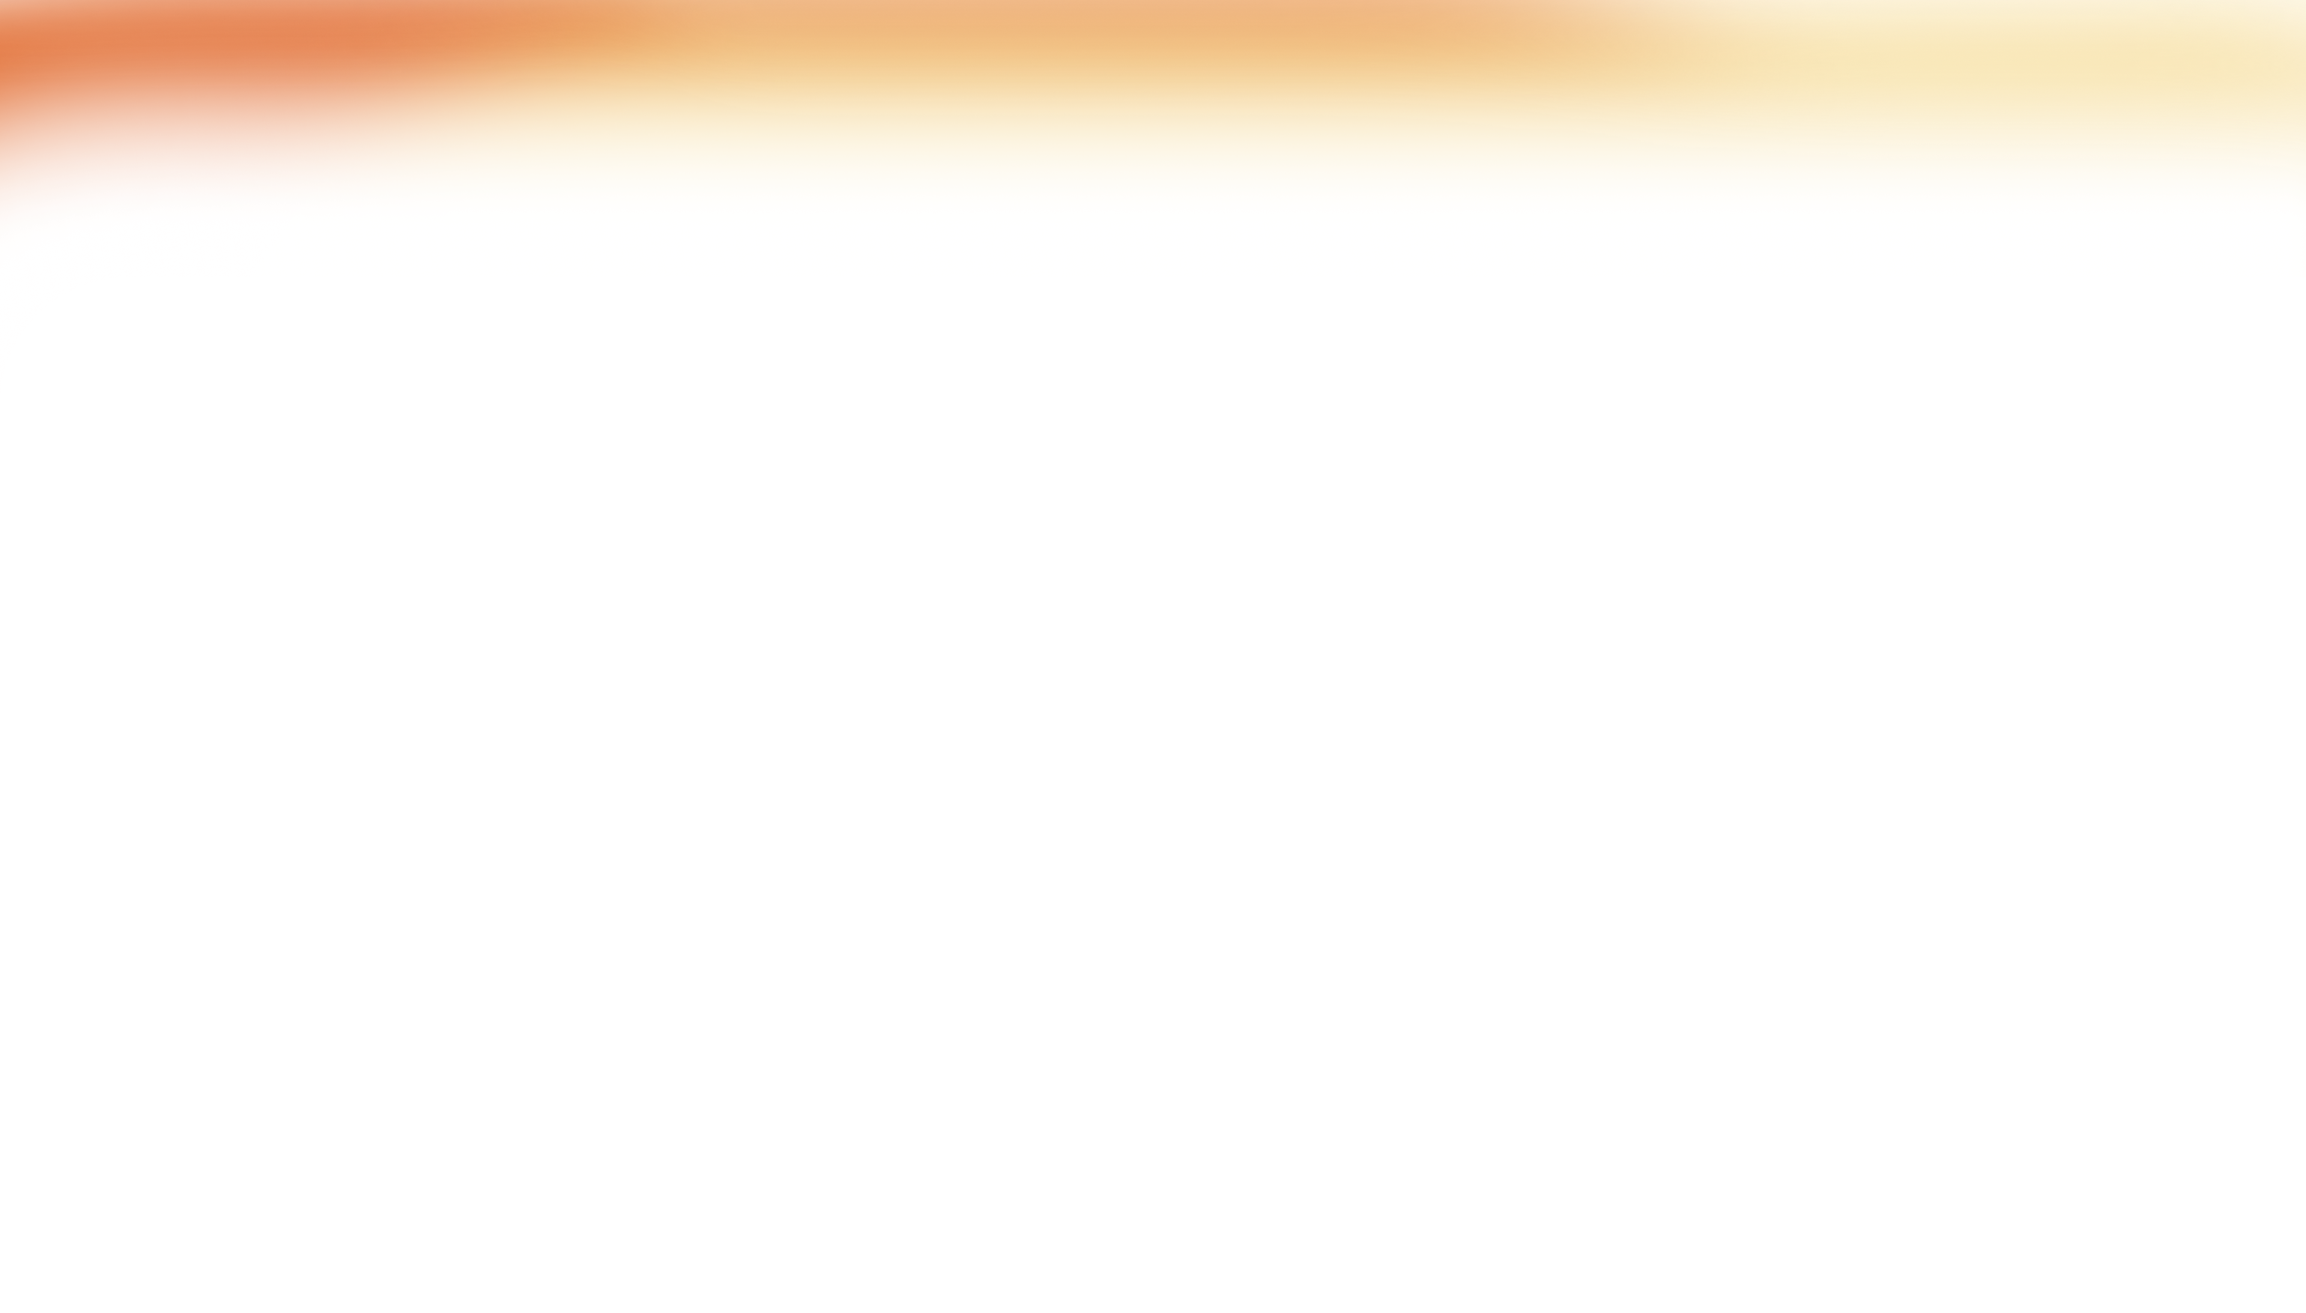
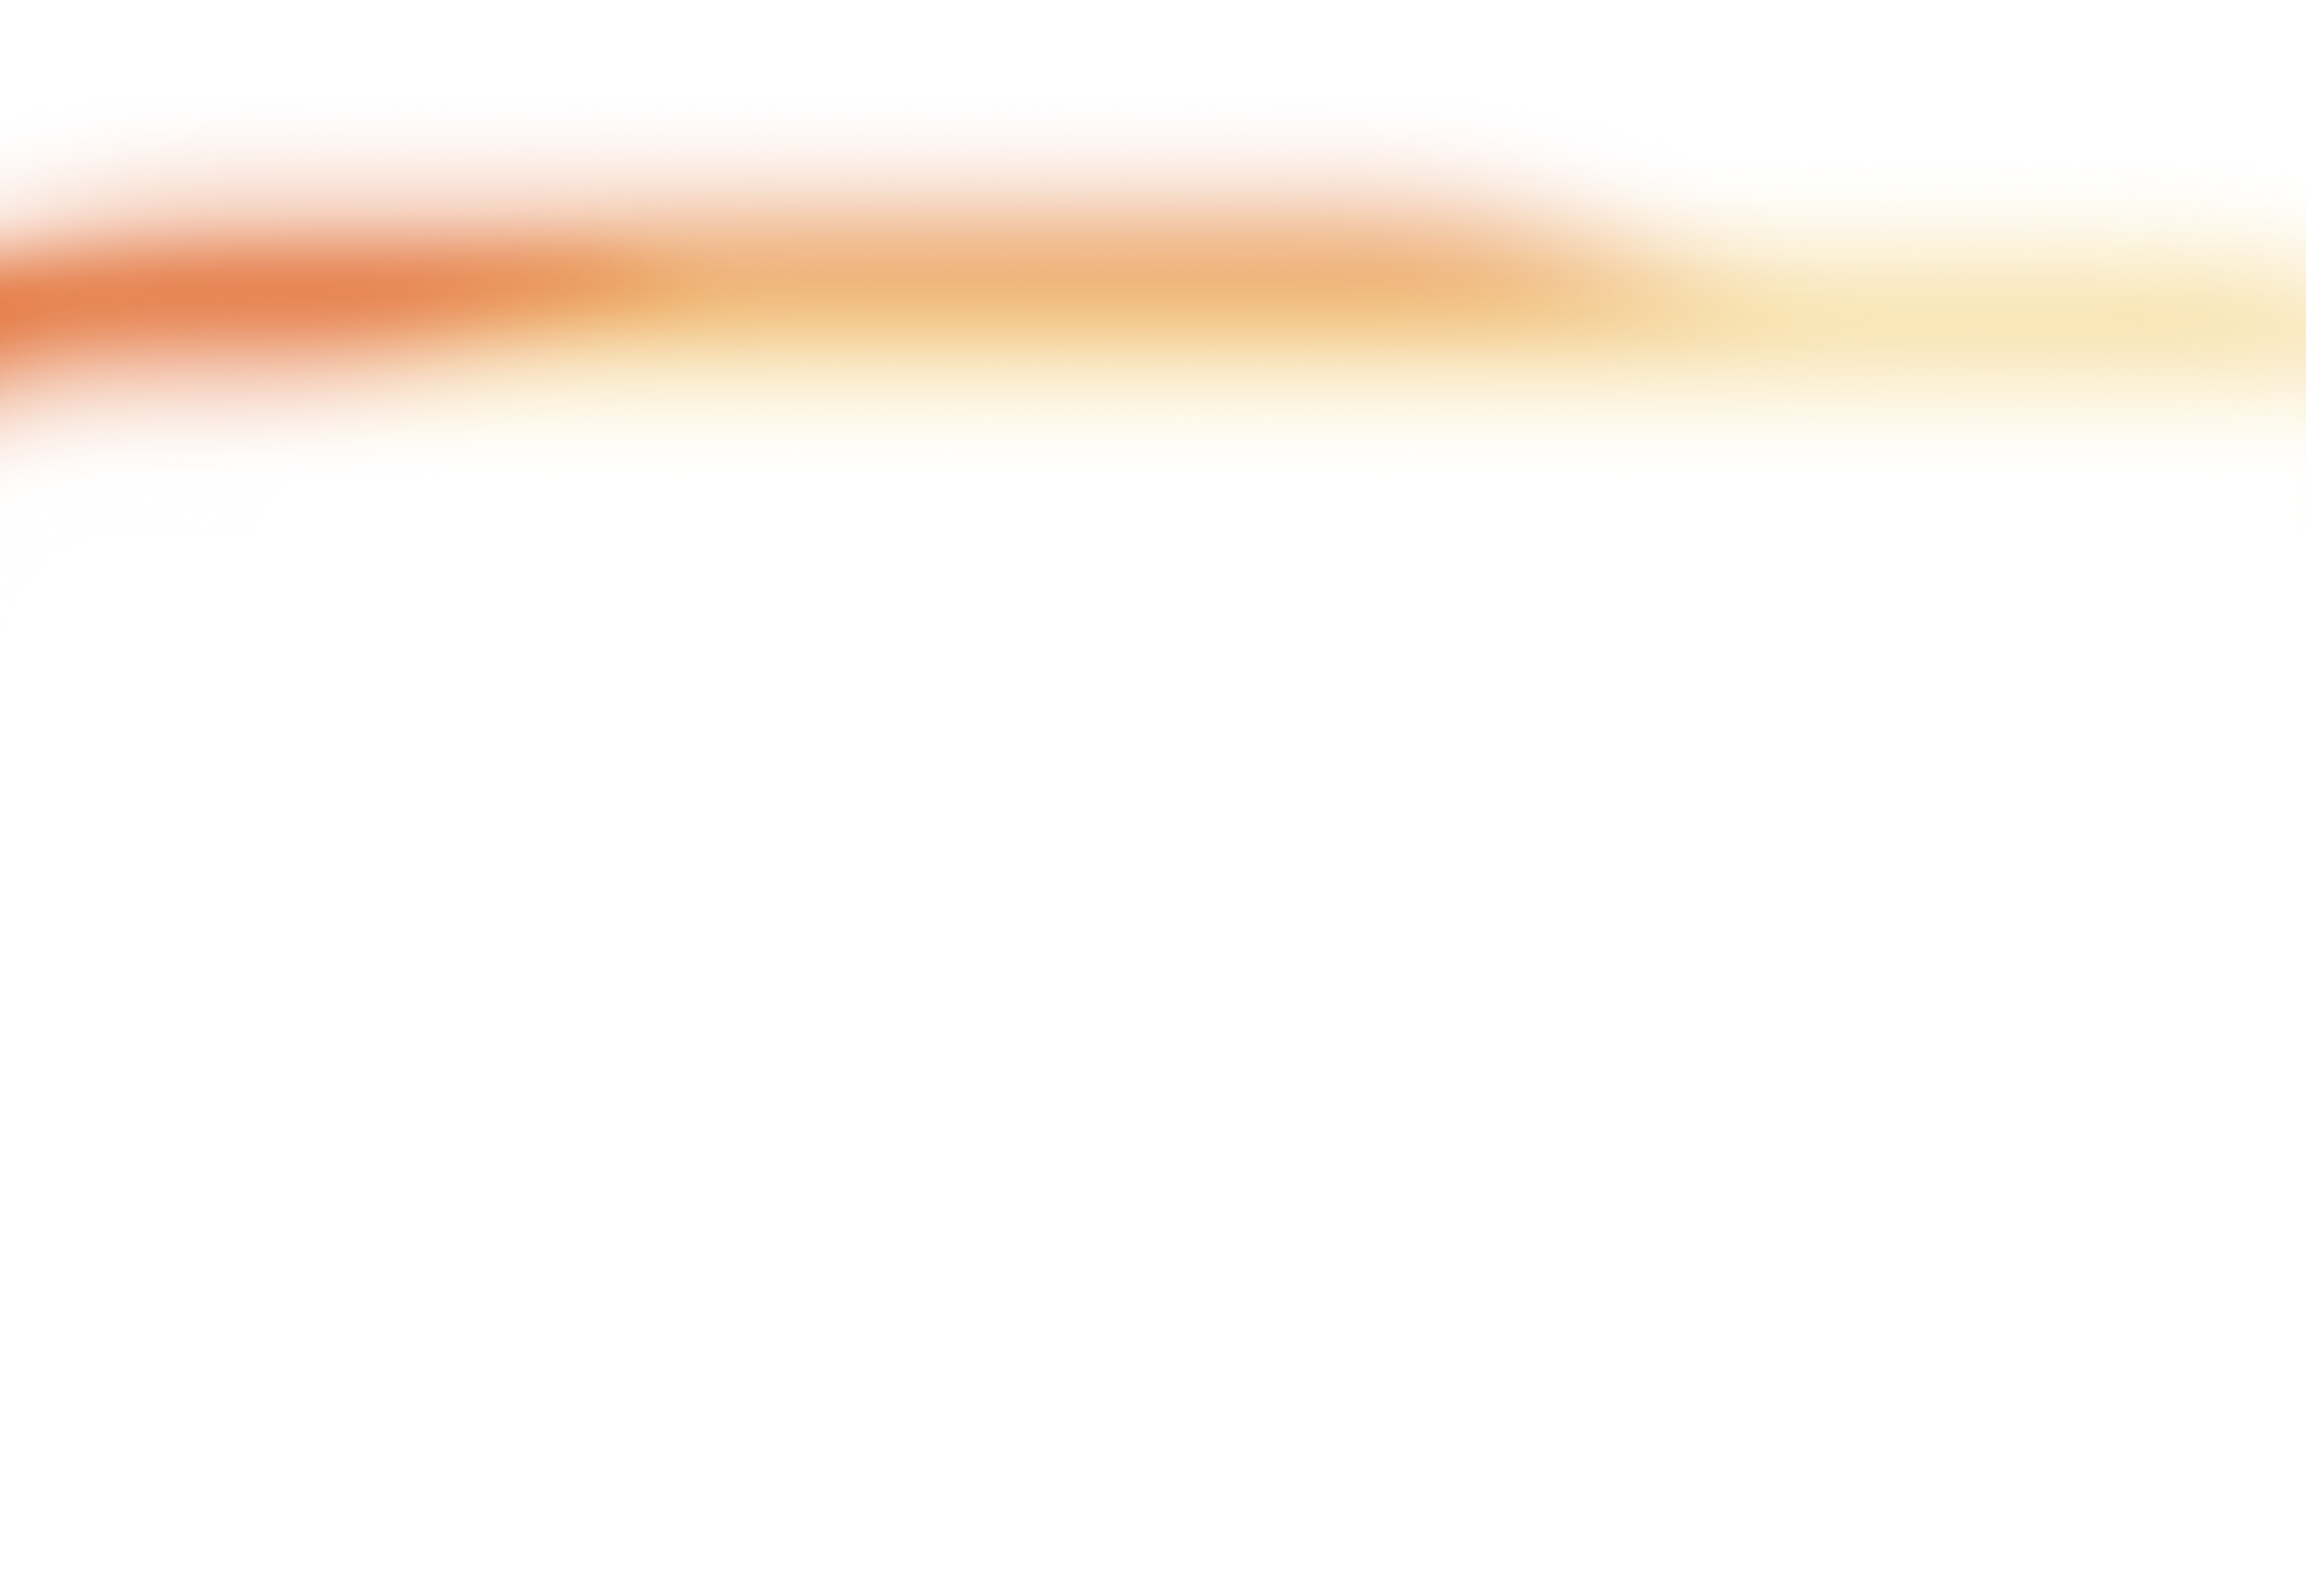
done footer

Changed region(s): [[0.0, 0.0, 1.0, 0.2798]]

diff --git a/features/Footer.tsx b/features/Footer.tsx
@@ -1,16 +1,85 @@
-import { AspectRatio, BackgroundImage, Container } from '@mantine/core'
+import { AspectRatio, BackgroundImage, Box, Container, Divider, Flex, Image, Input, Text, Title } from '@mantine/core'
 import React from 'react'
-import { FooterBG } from '../assets/imgs'
+import { FooterBG, SECLogo } from '../assets/imgs'
+import ArrowUpRight from '../assets/vectors/ArrowUpRight'
+import SocialMenu from '../components/Footer/SocialMenu'
+import CategoryMenu from '../components/Footer/CategoryMenu'
+import PolicyMenu from '../components/Footer/PolicyMenu'
 
 function Footer() {
   return (
-    <AspectRatio ratio={1920/1093}>
+    <Box pos={"relative"} style={{
+      zIndex: 100
+    }} bg={"#070707"}>
+      <AspectRatio ratio={1920/1158} >
         <BackgroundImage src={FooterBG.src} bgsz={"cover"}>
-        <Container fluid py={{base: 205, lg: 154, xl: 230}} px={{base: 16, lg: 106, xl: 160}}>
+          <Container fluid pt={{base: 205, lg: 154, xl: 420}} px={{base: 16, lg: 106, xl: 160}}>
+            <Flex
+                direction={{ base: "column", lg: "row" }}
+                align={"center"}
+                justify={"space-between"}
+                gap={24}
+              >
+                <Box w={{ base: "100%", lg: "50%" }}>
+                  <Text tt={"uppercase"} lh={"100%"} fz={{ base: 40, xl: 80 }} fw={400} c={"#1F2937"}>
+                    Let’s Talk 
+                  </Text>
+                  <Title tt={"uppercase"} lh={"100%"} fz={{ base: 40, xl: 80 }} fw={400} c={"#1F2937"}>
+                    Together
+                  </Title>
+                </Box>
+                <Box w={{ base: "100%", lg: "40%" }}>
+                  <Flex align={"center"} justify={"space-between"}>
+                    <Text c={"#1F2937"} fz={{base: 16, lg: 20, xl: 32}}>Enter Your Email</Text>
 
-        </Container>
-    </BackgroundImage>
+                    <AspectRatio ratio={1} w={{base: 26, lg: 40}}>
+                      <ArrowUpRight color='#1F2937' />
+                    </AspectRatio>
+                  </Flex>
+
+                  <Input variant={"unstyled"} style={{
+                    borderBottom: "1px solid #D1D5DB"
+                  }} />
+                </Box>
+              </Flex>
+
+              <Flex mt={{base: 40, lg: 60}} justify={"space-between"} gap={40} direction={{base: "column", lg: "row"}}>
+                  <Box w={{base: "100%", lg: "35%"}}>
+                    <SocialMenu />
+                    <Box mt={{base: 52, xl: 80}}>
+                      <Text c={"#1F2937"} fz={{base: 20, xl: 32}}>About Us</Text>
+
+                      <Text mt={{base: 22, xl: 33}} c={"#1F2937"} fz={{base: 12, xl: 16}}>
+                        SEC (Silver Exchange Company) was born with the mission to revolutionize silver investment in Vietnam, bringing a pioneering digitized silver solution, applying blockchain technology to solve existing problems of the traditional silver market.
+                      </Text>
+                    </Box>
+                  </Box>
+
+                  <Box w={{base: "100%", lg: "45%"}}>
+                    <CategoryMenu />
+                  </Box>
+              </Flex>
+          </Container>
+          <Divider mt={{base: 40, lg: 52, xl: 80}} />
+
+          <Flex wrap={"wrap"} align={"center"} py={{base: 16, xl: 24}} px={{base: 16, lg: 106, xl: 160}} justify={"space-between"}>
+            <Text w={{base: "50%", lg: "40%"}} c={"#1F2937"} fz={{base: 14, xl: 22}}>© 2024 Copyright By SEC</Text>
+
+            <Flex w={{base: "50%", lg: "20%"}} gap={"md"}>
+              <AspectRatio ratio={40/49} w={{base: 27, xl: 40}}>
+                  <Image src={SECLogo.src} alt='' />
+              </AspectRatio>
+
+              <Text c={"#1f2937"} fw={500} fz={{base: 20, xl: 32}}>SEC</Text>
+            </Flex>
+
+            <Box w={{base: "100%", lg: "40%"}}>
+              <PolicyMenu />
+            </Box>
+          </Flex>
+        </BackgroundImage>
     </AspectRatio>
+    </Box>
   )
 }
 

diff --git a/constants/menu.ts b/constants/menu.ts
@@ -1,0 +1,115 @@
+export const socialsMenu = [
+    {
+        title: "Instagram",
+        link: ""
+    },
+    {
+        title: "Twitter",
+        link: ""
+    },
+    {
+        title: "Tiktok",
+        link: ""
+    },
+    {
+        title: "Facebook",
+        link: ""
+    },
+    {
+        title: "Linkedin",
+        link: ""
+    },
+    {
+        title: "Youtube",
+        link: ""
+    }
+]
+
+export const categoriesMenu = [
+    {
+        title: "Company",
+        content: [
+            {
+                name: "About",
+                link: ""
+            },
+            {
+                name: "Pricing",
+                link: ""
+            },
+            {
+                name: "Jobs",
+                link: ""
+            },
+            {
+                name: "Blog",
+                link: ""
+            }
+        ]
+    },
+    {
+        title: "Product",
+        content: [
+            {
+                name: "Sales Software",
+                link: ""
+            },
+            {
+                name: "Marketplace",
+                link: ""
+            },
+            {
+                name: "Terms & Conditions",
+                link: ""
+            },
+            {
+                name: "Privacy Policy",
+                link: ""
+            }
+        ]
+    },
+    {
+        title: "Help Center",
+        content: [
+            {
+                name: "Community",
+                link: ""
+            },
+            {
+                name: "Knowledge Base",
+                link: ""
+            },
+            {
+                name: "Academy",
+                link: ""
+            },
+            {
+                name: "Support",
+                link: ""
+            }
+        ]
+    }
+]
+
+export const policiesMenu = [
+    {
+        title: "Terms",
+        link: ""
+    },
+    {
+        title: "Privacy",
+        link: ""
+    },
+    {
+        title: "Cookies",
+        link: ""
+    },
+    {
+        title: "Legal",
+        link: ""
+    },
+    {
+        title: "Recalls",
+        link: ""
+    },
+]

diff --git a/components/Footer/CategoryMenu.tsx b/components/Footer/CategoryMenu.tsx
@@ -1,0 +1,29 @@
+import { Box, Button, Flex, Text } from '@mantine/core'
+import React from 'react'
+import { categoriesMenu } from '../../constants/menu'
+
+function CategoryMenu() {
+  return (
+    <Flex justify={"space-between"} wrap={"wrap"} gap={"md"}>
+        {
+            categoriesMenu.map((e, i) => (
+                <Box key={i} w={{base: "40%", lg: "30%"}}>
+                    <Text c={"#1F2937"} fw={500} fz={{base: 16, xl: 24}}>{e.title}</Text>
+
+                    <Flex direction={"column"} mt={{base: 20, xl: 32}} gap={{base: 14, xl: 20}}>
+                        {
+                            e.content.map((el, ind) => (
+                                <Button c={"#6B7280"} w={"fit-content"} px={0} variant={"transparent"} key={ind}>
+                                    <Text fz={{base: 14, xl: 20}}>{el.name}</Text>
+                                </Button>
+                            ))
+                        }
+                    </Flex>
+                </Box>
+            ))
+        }
+    </Flex>
+  )
+}
+
+export default CategoryMenu

diff --git a/components/Footer/SocialMenu.tsx b/components/Footer/SocialMenu.tsx
@@ -1,0 +1,26 @@
+import { AspectRatio, Box, Button, Flex, Text } from '@mantine/core'
+import React from 'react'
+import { socialsMenu } from '../../constants/menu'
+import ArrowUpRight from '../../assets/vectors/ArrowUpRight'
+
+function SocialMenu() {
+  return (
+    <Box>
+        <Text fz={{base: 20, xl: 32}} c={"#1F2937"}>Social Menu</Text>
+
+        <Flex wrap={"wrap"} mt={{base: 12, xl: 28}}>
+            {
+                socialsMenu.map((e, i) => (
+                    <Box mt={4} mr={{base: 20, xl: 32}} w={"25%"} key={i}>
+                        <Button px={0} variant={"transparent"} rightSection={<AspectRatio ratio={1} w={{base: 16, xl: 24}}><ArrowUpRight color='#1F2937' /></AspectRatio>}>
+                            <Text c={"#1F2937"} fz={{base: 16, xl: 24}}>{e.title}</Text>
+                        </Button>
+                    </Box>
+                ))
+            }
+        </Flex>
+    </Box>
+  )
+}
+
+export default SocialMenu

diff --git a/components/Footer/PolicyMenu.tsx b/components/Footer/PolicyMenu.tsx
@@ -1,0 +1,21 @@
+import { Box, Button, Flex, Text } from '@mantine/core'
+import React from 'react'
+import { policiesMenu } from '../../constants/menu'
+
+function PolicyMenu() {
+  return (
+    <Flex justify={{base: "flex-start", lg: "flex-end"}} gap={"md"}>
+        {
+            policiesMenu.map((e, i) => (
+                <Box key={i} w={{base: "25%", lg: "fit-content"}}>
+                  <Button px={0} variant={"transparent"}>
+                      <Text c={"#1F2937"} fz={{base: 12, xl: 20}}>{e.title}</Text>
+                  </Button>
+                </Box>
+            ))
+        }
+    </Flex>
+  )
+}
+
+export default PolicyMenu

diff --git a/assets/vectors/ArrowUpRight.tsx b/assets/vectors/ArrowUpRight.tsx
@@ -1,12 +1,12 @@
 import React from "react";
 
-function ArrowUpRight() {
+function ArrowUpRight({color}: {color?: string}) {
   return (
     <div>
       <svg viewBox="0 0 65 66" fill="none" xmlns="http://www.w3.org/2000/svg">
         <path
           d="M25.9049 20.817H44.6825M44.6825 20.817V39.5946M44.6825 20.817L20.5399 44.9597"
-          stroke="white"
+          stroke={color ? color : "white"}
           strokeWidth="3.79365"
           strokeLinecap="round"
           strokeLinejoin="round"
